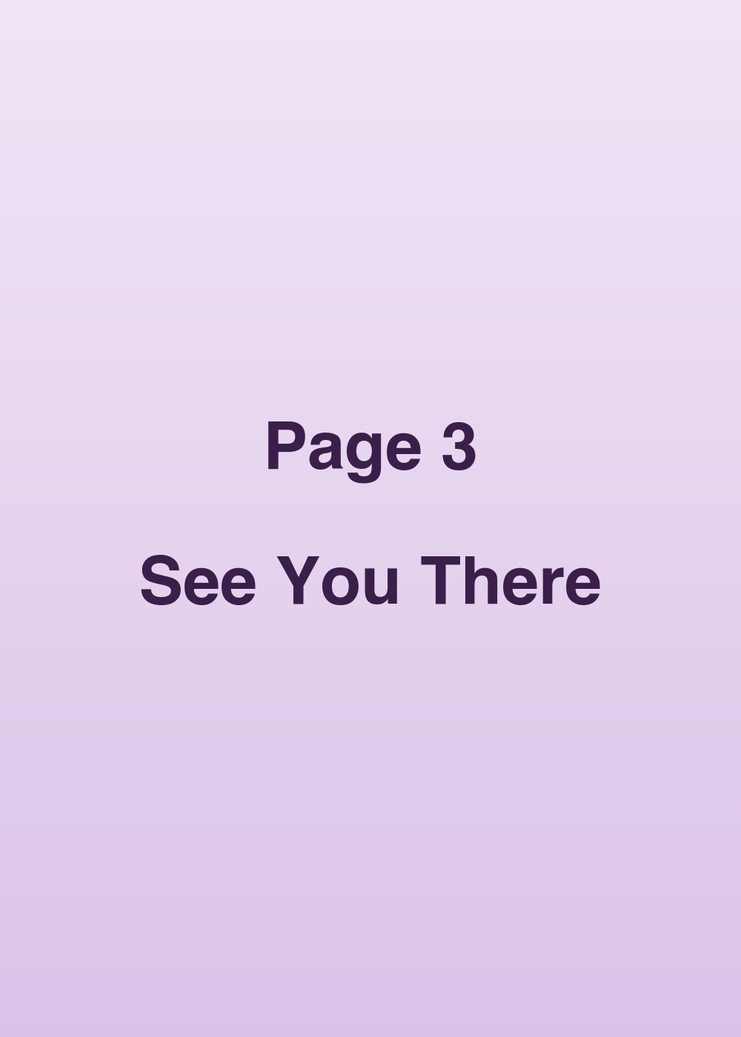
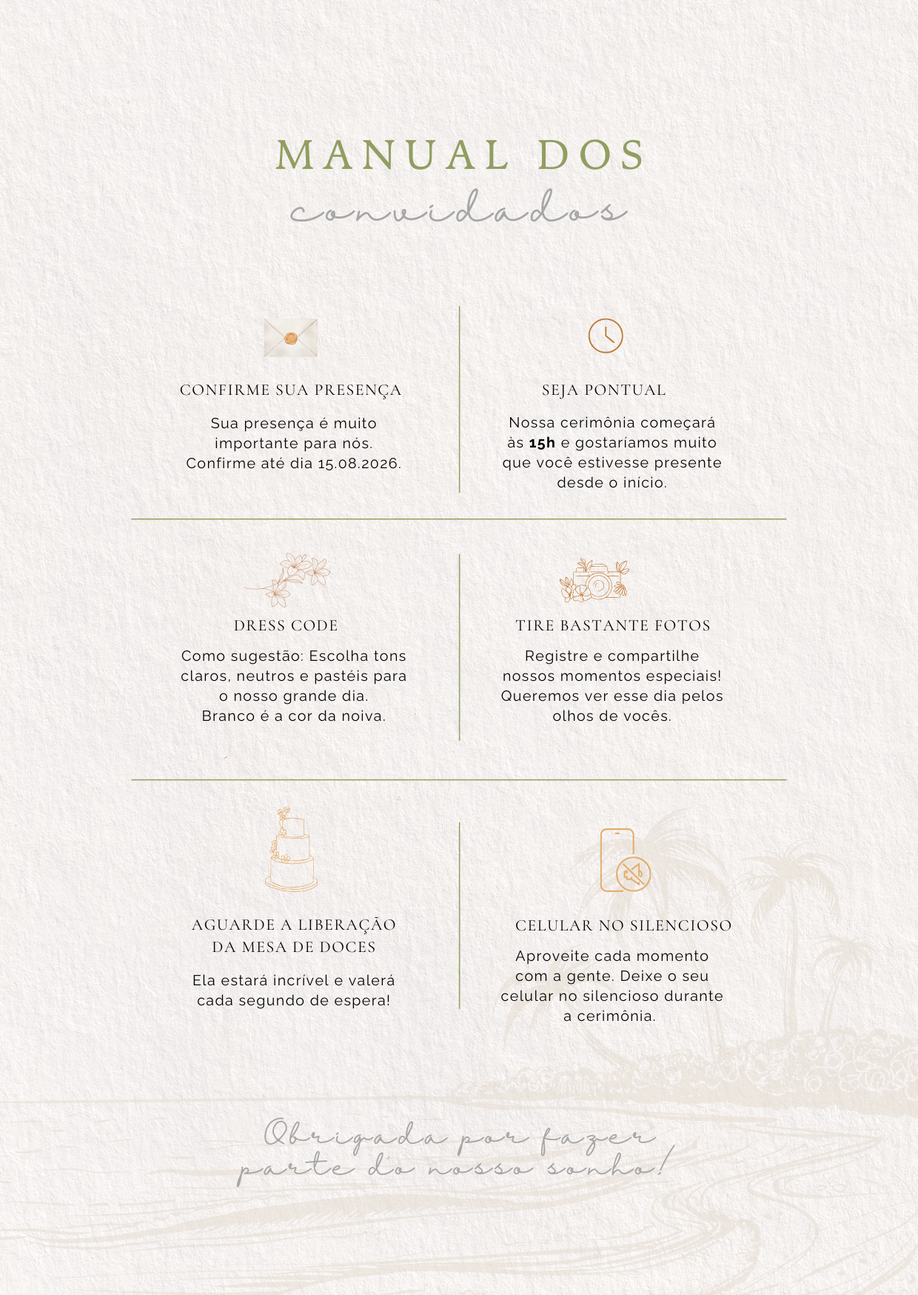
fix path and images

diff --git a/components/BookFlip.vue b/components/BookFlip.vue
@@ -35,10 +35,13 @@
 </template>
 
 <script setup>
+const { app } = useRuntimeConfig()
+const withBase = (path) => app.baseURL.replace(/\/$/, '') + path
+
 const pages = [
-  '/images/page1.png',
-  '/images/page2.png',
-  '/images/page3.png'
+  withBase('/images/page1.png'),
+  withBase('/images/page2.png'),
+  withBase('/images/page3.png')
 ]
 
 const currentIndex = ref(0)

diff --git a/nuxt.config.ts b/nuxt.config.ts
@@ -4,7 +4,7 @@ export default defineNuxtConfig({
   devtools: { enabled: true },
   ssr: true,
   app: {
-    baseURL: process.env.NUXT_APP_BASE_URL || '/invitation/',
+    baseURL: process.env.NUXT_APP_BASE_URL || '/casamento/',
     head: {
       title: 'Invitation',
       meta: [
